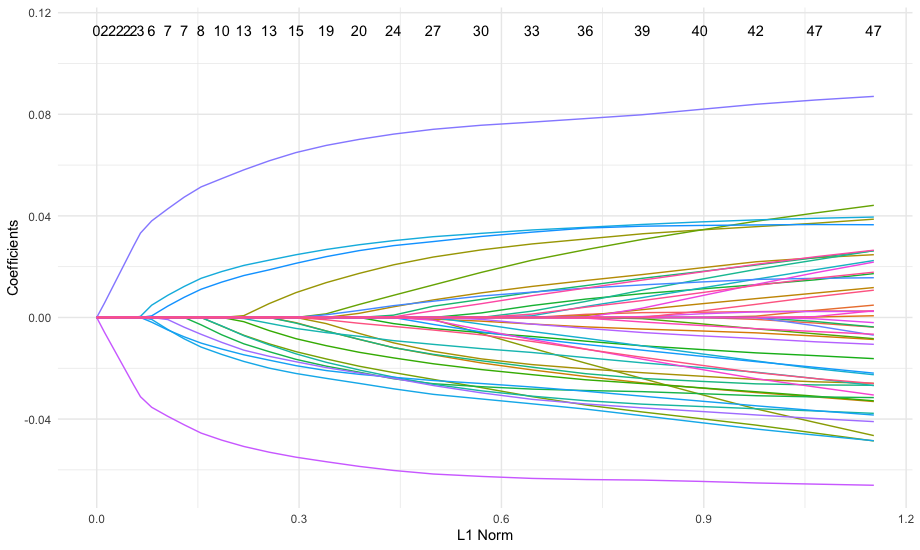
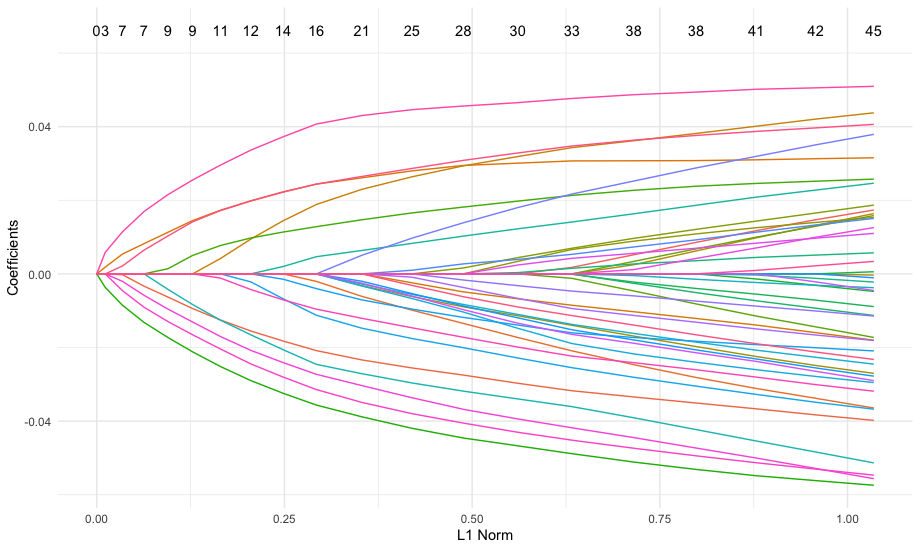
Bug Fix: Tutorial 1
Fixed bug when generating survival data. Updated all data and plots displayed to match the new results.

diff --git a/tutorials/01_the_rpair_function.md b/tutorials/01_the_rpair_function.md
@@ -15,13 +15,13 @@ library(survival)
 ```r
 set.seed(41)
 x = matrix(rnorm(40000),ncol = 200 )
-S = Surv(cbind(sample(nrow(x)), rbinom(nrow(x),1,prob = 0.7)))
+S = Surv(sample(nrow(x)), rbinom(nrow(x),1,prob = 0.7))
 
 cp = rpair:::y_to_pairs.Surv(S)
 ```
 
 ```r
-# first 4 rows and columns of the data matrix
+# first four rows and columns of the data matrix
 x[1:4,1:4]
 ```
              [,1]       [,2]       [,3]        [,4]  
@@ -33,25 +33,25 @@ x[1:4,1:4]
 ```r
 # first five rows of survival data
 colnames(S) <- c("time", "status")
-S[1:5,]
+as.matrix(S)[1:5,]
 ```
          time status
-    [1,]  180      0
-    [2,]  185      1
-    [3,]   44      1
-    [4,]  149      1
-    [5,]  174      1
+    [1,]   54      1
+    [2,]   59      1
+    [3,]   52      1
+    [4,]  141      0
+    [5,]  200      1
 
 ```r
-# first 10 rows of the comparable pairs
+# first five rows of the comparable pairs
 cp[1:5,]
 ```
          row col
-    [1,]   7   2
-    [2,]  23   2
-    [3,]  31   2
-    [4,]  38   2
-    [5,]  41   2
+    [1,]   2   1
+    [2,]   4   1
+    [3,]   5   1
+    [4,]   6   1
+    [5,]   7   1
 
 ## Exponential Loss
 ```r
@@ -64,14 +64,12 @@ plot(efit)
 ```r
 # extract coefficients from rpair object
 ec <- coef(efit)
-ec[12:16,11:15]
+ec[22:24,16:21]
 ```
-                 s10          s11          s12          s13         s14
-    V12  .            .            .            .            .         
-    V13  .            .            0.002650964  0.007841447  0.01256792
-    V14  .           -0.003838902 -0.007691823 -0.011454027 -0.01485605
-    V15  .            .            .            .            .         
-    V16 -0.003320624 -0.007482734 -0.011241039 -0.014753196 -0.01829066
+                s15         s16         s17          s18          s19          s20
+    V22 -0.02246443 -0.02419861 -0.02594546 -0.027585749 -0.029432831 -0.031187990
+    V23 -0.02425959 -0.02806981 -0.03173327 -0.035433977 -0.039239990 -0.042913564
+    V24  .           .           .          -0.001695107 -0.003519271 -0.005579169
 
 ## Logistic Loss
 ```r
@@ -86,11 +84,11 @@ plot(lfit, xvar="dev")
 lp <- predict(lfit, newx=x)
 lp[1:4, 2:5]  # skip the intercept column
 ```
-                   s1           s2           s3           s4
-    [1,] -0.008572849 -0.016069312 -0.023236867 -0.030094521
-    [2,]  0.017406220  0.033838006  0.049548946  0.064580900
-    [3,]  0.001672157  0.002615468  0.003517347  0.004380103
-    [4,]  0.019123444  0.037803408  0.055663949  0.072752749
+                   s1            s2           s3          s4
+    [1,] -0.003901896  0.0001017284  0.009983417  0.03207986
+    [2,] -0.004849108 -0.0134936992 -0.031047703 -0.05235341
+    [3,]  0.004310137 -0.0155949314 -0.036261348 -0.05663072
+    [4,] -0.003066923 -0.0082080652 -0.016309725 -0.02769007
     
 ## Squared Hinge Loss
 ```r
@@ -104,11 +102,11 @@ plot(sfit, xvar="lambda")
 sn <- predict(sfit, type = "nonzero")
 sn$s2
 ```
-    [1] 36 57
+    [1] 84  89  90  95 104 108 143
 ```r
 sn$s15
 ```
-    [1]  13  14  16  30  31  36  41  57  92 118 127 141 143 169 174 178 188 195 196
+    [1]   9  22  23  35  38  55  74  84  89  90  95  99 104 106 108 117 118 124 142 143 173 175 190 197 198  
 ## Huberized Hinge Loss
 ```r
 hfit = rpair(x, cp, loss_type="huh",pmax=50)
@@ -119,12 +117,10 @@ plot(hfit, xvar="norm")
 
 ```r
 hc <- predict(hfit, type="coefficient")
-hc[12:16,12:16]
+hc[21:23,16:20]
 ```
 
-                 s11           s12          s13          s14         s15
-    V12  0.000000000  0.0000000000  0.000000000  0.000000000  0.00000000
-    V13  0.000000000  0.0007142186  0.005466097  0.009785006  0.01371642
-    V14 -0.003424941 -0.0069906289 -0.010390398 -0.013452388 -0.01631686
-    V15  .            .             .            .            .         
-    V16 -0.006823550 -0.0103661137 -0.013461844 -0.016476534 -0.01915825
+                s15         s16         s17         s18         s19
+    V21  .           .           .           .           .         
+    V22 -0.01727792 -0.01830283 -0.01922696 -0.02006928 -0.02093633
+    V23 -0.01794908 -0.02064589 -0.02312661 -0.02555791 -0.02779619
